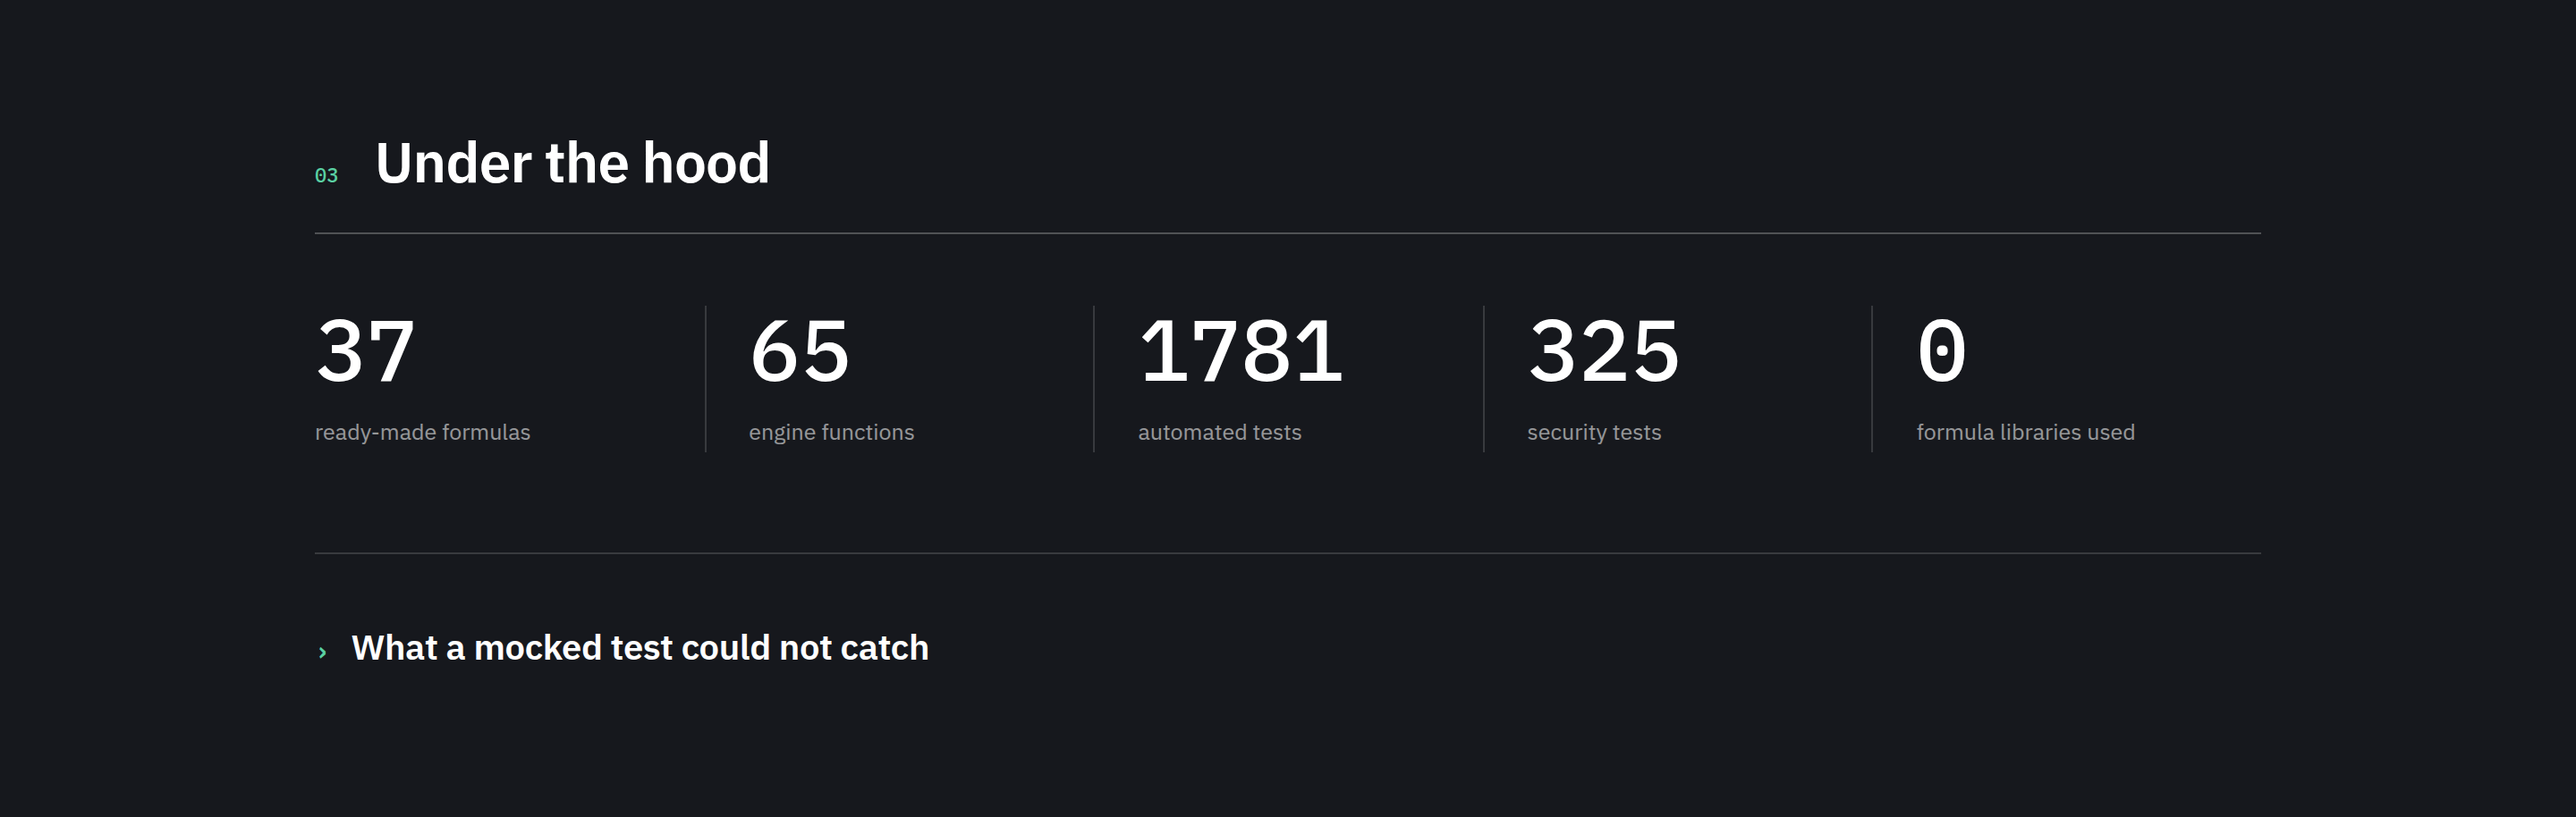
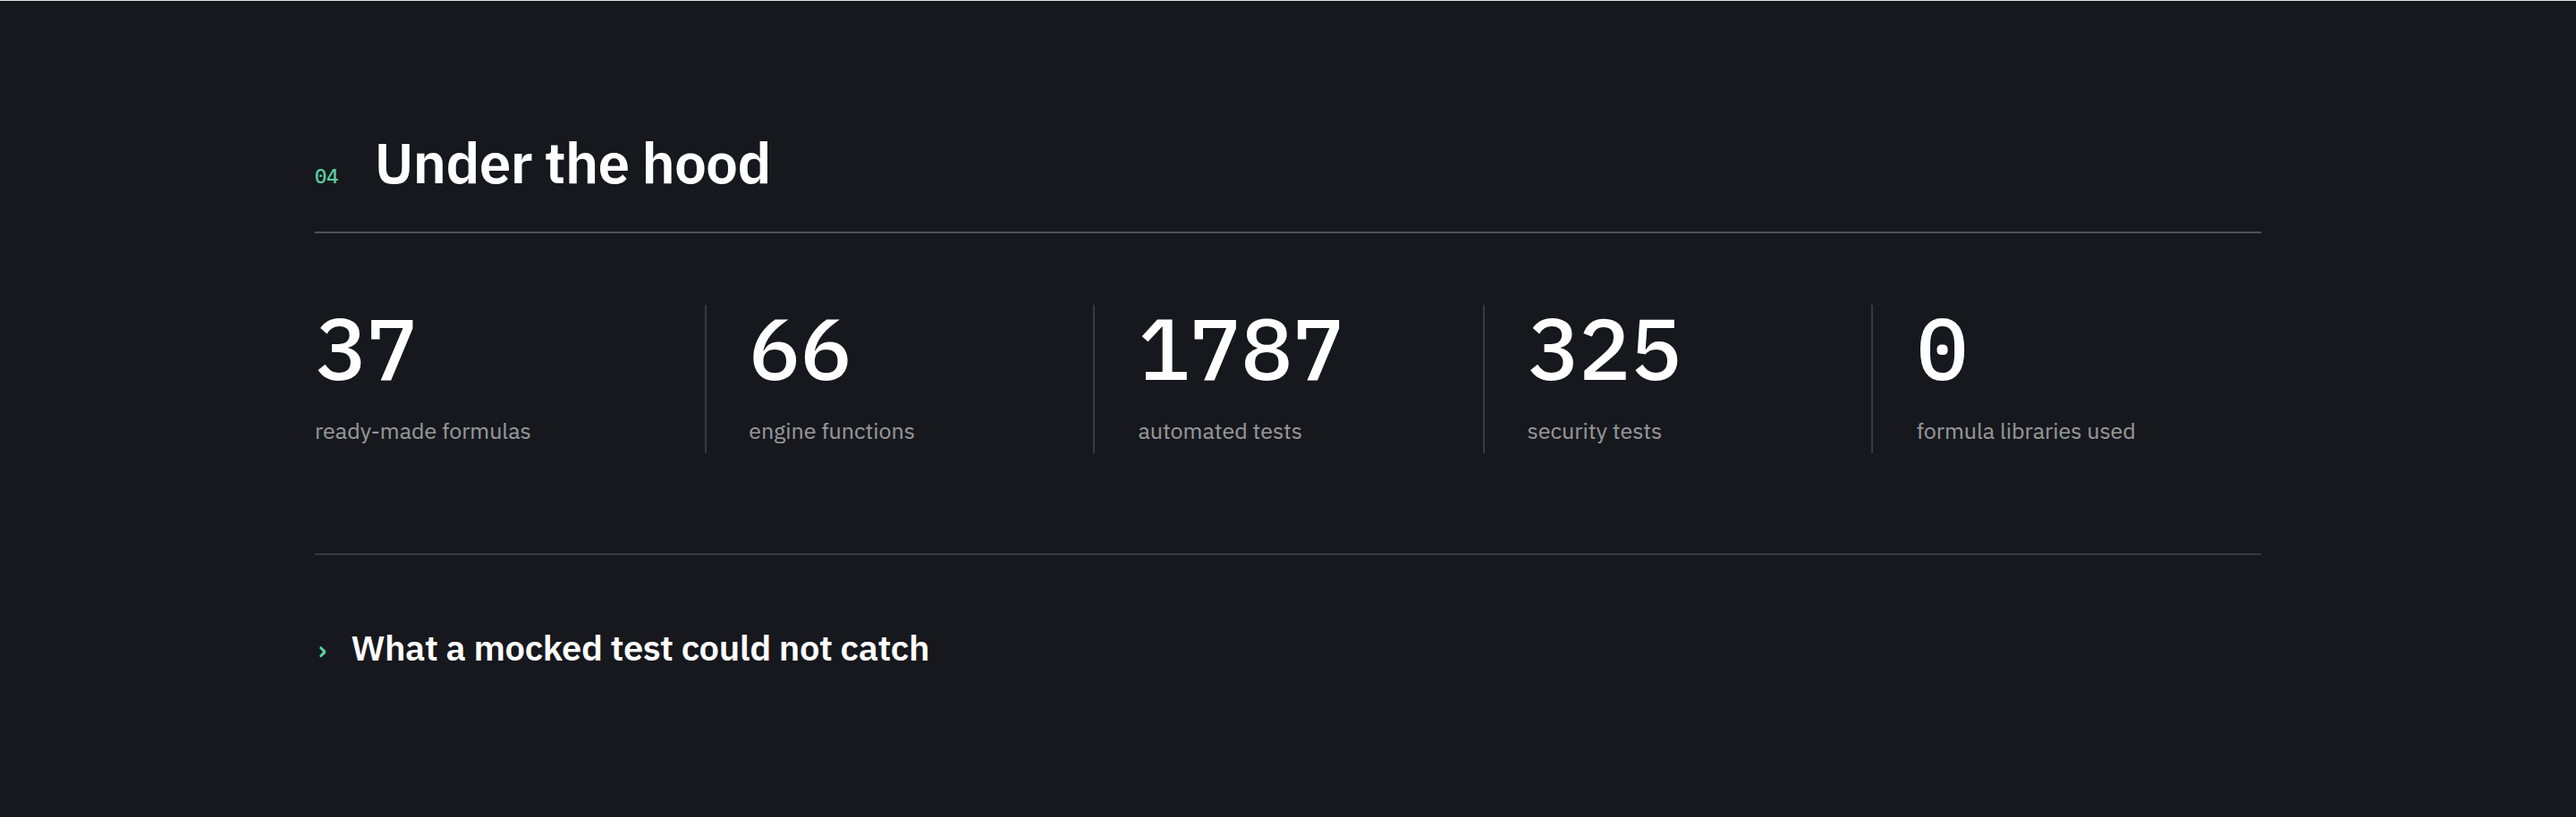
Count PR4 on top of main: 1787 tests, 66 engine functions
#152 moved onto main after #161 merged. Pictures 27 (the stats, now
section 04 with 66 functions) and 67 (the FAQ) are retaken in both
languages, and the social preview is rebuilt from the same counts.

Claude-Session: https://claude.ai/code/session_017JCei6k3DVf6v7u2CAWhTy

diff --git a/src/i18n/th.ts b/src/i18n/th.ts
@@ -427,7 +427,7 @@ export const th: Messages = {
     stats: [
       { value: "37", label: "สูตรพร้อมใช้" },
       { value: "66", label: "ฟังก์ชันในเอนจิน" },
-      { value: "1781", label: "เทสต์อัตโนมัติ" },
+      { value: "1787", label: "เทสต์อัตโนมัติ" },
       { value: "325", label: "เทสต์ด้านความปลอดภัย" },
       { value: "0", label: "ไลบรารีคำนวณสูตร" },
     ],

diff --git a/src/i18n/en.ts b/src/i18n/en.ts
@@ -428,7 +428,7 @@ export const en: Messages = {
     stats: [
       { value: "37", label: "ready-made formulas" },
       { value: "66", label: "engine functions" },
-      { value: "1781", label: "automated tests" },
+      { value: "1787", label: "automated tests" },
       { value: "325", label: "security tests" },
       { value: "0", label: "formula libraries used" },
     ],

diff --git a/src/app/opengraph-image.tsx b/src/app/opengraph-image.tsx
@@ -29,7 +29,7 @@ export default function OgImage() {
   const stats = [
     ["66", "engine functions"],
     ["37", "palette formulas"],
-    ["1781", "automated tests"],
+    ["1787", "automated tests"],
     ["325", "of them security"],
     ["0", "formula libraries"],
   ];

diff --git a/README.en.md b/README.en.md
@@ -42,7 +42,7 @@ right here, with the URL, the header and the data never passing through our serv
   <img alt="Tailwind CSS" src="https://img.shields.io/badge/Tailwind_CSS-4-06B6D4?logo=tailwindcss&logoColor=white">
   <img alt="Zustand" src="https://img.shields.io/badge/Zustand-5-443E38">
   <a href="https://excel-to-go.vercel.app"><img alt="Open the app" src="https://img.shields.io/badge/▶_try_it-excel--to--go.vercel.app-2F9E44"></a>
-  <img alt="Vitest" src="https://img.shields.io/badge/tests-1781%20passing-2F9E44?logo=vitest&logoColor=white">
+  <img alt="Vitest" src="https://img.shields.io/badge/tests-1787%20passing-2F9E44?logo=vitest&logoColor=white">
   <img alt="CI" src="https://github.com/SuruchBoss/ExcelToGo/actions/workflows/ci.yml/badge.svg">
 </p>
 
@@ -63,7 +63,7 @@ self-hosted, straight from PostgreSQL/MySQL — one saved read-only query, and n
 and full-fidelity Excel/PDF export, where a chart exported to `.xlsx` is a real, editable chart
 bound to its cells, because the OOXML chart parts are written by hand (ExcelJS writes none). Plus optional
 bring-your-own-backend cloud save and live co-editing over it — presence, last-writer-wins with the loser told, and
-an undo that does not erase the other person's work. Bilingual UI (Thai/English), 1781 automated tests.
+an undo that does not erase the other person's work. Bilingual UI (Thai/English), 1787 automated tests.
 
 ---
 
@@ -107,7 +107,7 @@ Want the harder parts: [embedding a Thai font in the PDF, with stacked tone mark
 
 ---
 
-### 🧪 What 1781 passing tests could not catch
+### 🧪 What 1787 passing tests could not catch
 
 Every test of the assistant **mocks the model** — it returns what I imagined it would. Put a real
 API key behind it, ask fourteen ordinary questions, and **six answers used functions this engine
@@ -118,7 +118,7 @@ Then **the first fix made it worse.** The rule started as "give the closest form
 allows", so _"join all the names into one line"_ came back as `=SUM(A2:A20)` — `0` in the cell, no
 error, nothing to notice. **A visible `#NAME?` traded for an invisible wrong number.**
 
-**And it happened again, in a different place.** With every gate green — 1781 tests, `axe` clean on
+**And it happened again, in a different place.** With every gate green — 1787 tests, `axe` clean on
 both pages at two widths — an hour of clicking through the public build the way a first-time visitor
 would found three things no gate can see:
 
@@ -390,7 +390,7 @@ Other available commands:
 | `npm run build` | Build a production bundle |
 | `npm run start` | Run the production build (run `npm run build` first) |
 | `npm run lint` | Check code quality with ESLint |
-| `npm test` | Run the 1781-case Vitest suite |
+| `npm test` | Run the 1787-case Vitest suite |
 | `npm run check:readme` | Check the READMEs still match the code (links/images/test count/new modules/both languages) |
 | `npm run check:screens` | Figures printed on a screenshot still match the source |
 | `npm run check:rls` | Two real accounts against your own Supabase: does the database refuse what the policies say it should (needs env) |
@@ -2741,7 +2741,7 @@ architecture behind it.
 | `@anthropic-ai/sdk` | Connects to the Claude API for the AI assistant |
 | `lucide-react` | UI icons |
 | `clsx` | Conditional className composition |
-| `vitest` | Unit tests for the formula engine, sort logic, JSON-to-table conversion, pagination, rate limiting, templates, file fidelity, conditional formatting and live blocks (1781 cases) |
+| `vitest` | Unit tests for the formula engine, sort logic, JSON-to-table conversion, pagination, rate limiting, templates, file fidelity, conditional formatting and live blocks (1787 cases) |
 
 > **Note:** No off-the-shelf formula library (e.g. HyperFormula) is used — the **formula engine is hand-written**
 > (tokenizer, parser, evaluator, and functions) to keep full control over its behavior. See
@@ -3737,13 +3737,13 @@ the framework bundle itself, which isn't a trade worth making here. Written down
 ## 🧪 Testing
 
 ```bash
-npm test      # 1781 cases across 121 files, via Vitest
+npm test      # 1787 cases across 121 files, via Vitest
 ```
 
 Testing is focused on the **formula engine, sort logic, JSON-to-table conversion, pagination, rate-limit backoff, Excel templates and live-block placement** — pure functions with no React/DOM dependency, so
 they run fast and give high confidence.
 
-**But not one of those 1781 cases opens the app**, and nearly every bug this project found by hand lived in
+**But not one of those 1787 cases opens the app**, and nearly every bug this project found by hand lived in
 the wiring *between* pieces that all passed their tests — the toolbar's "+ row" called `addRow`, which
 announced nothing, while `insertRowAtSelection` next to it announced correctly (both tested) · the AI
 assistant sent a range including its text header, because the context builder read raw `sheet.cells`
@@ -3862,10 +3862,10 @@ once; disable `ArrowRight` in the grid and two assertions in the third fail. (Th
 second one stayed green: the `case` I inserted landed *after* the existing `case "ArrowRight"` and was dead
 code. Proving a gate means checking that the thing you meant to break actually broke.)
 
-> **1781 tests passed, and 43% of the assistant's answers were unusable** — because those tests mock
+> **1787 tests passed, and 43% of the assistant's answers were unusable** — because those tests mock
 > the model, so it returns what the test author imagined. A test count says what you thought to ask,
 > not whether you asked enough. Only a real API key found this: see
-> [What 1781 passing tests could not catch](#-what-1781-passing-tests-could-not-catch), repeatable
+> [What 1787 passing tests could not catch](#-what-1787-passing-tests-could-not-catch), repeatable
 > with `npm run check:ai`.
 
 | File | Cases | Tests |
